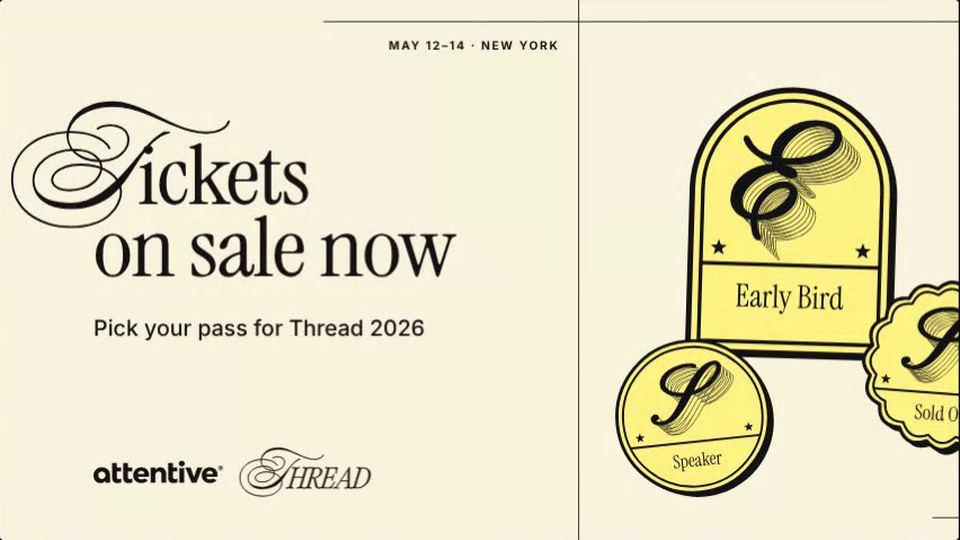
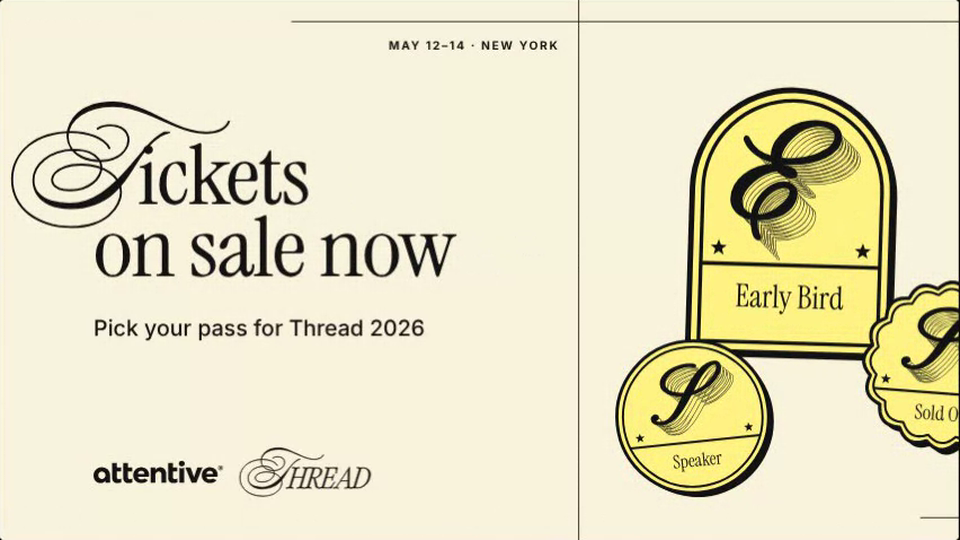
Conference Post Creator: speaker badge tilted further left (#342)
* Add Conference Post Generator: Thread 2026 social posts with loops, outlined photos and badges

Claude-Session: https://claude.ai/code/session_01AHeBdzDs1sAKkVKYb3xsdt

* Conference Post Generator: drop loop grid, badges on the right (3-5), Unsplash B&W portraits, single yellow

Claude-Session: https://claude.ai/code/session_01AHeBdzDs1sAKkVKYb3xsdt

* Conference Post Generator: new calligraphy flourish, sharp badges and tag, hairline pattern frame, caps date, one-line speaker name

Claude-Session: https://claude.ai/code/session_01AHeBdzDs1sAKkVKYb3xsdt

* Conference Post Generator: 3D calligraphic letter in badges, tighter headline leading

Claude-Session: https://claude.ai/code/session_01AHeBdzDs1sAKkVKYb3xsdt

* Conference Post Generator: date in the tag's type, more space above the talk title

Claude-Session: https://claude.ai/code/session_01AHeBdzDs1sAKkVKYb3xsdt

* Conference Post Generator: badge names on one line in Title Case

Claude-Session: https://claude.ai/code/session_01AHeBdzDs1sAKkVKYb3xsdt

* Conference Post Generator: date in footer, bigger photos bleeding off the bar, more space under the headline, smaller 16:9 speaker photo

Claude-Session: https://claude.ai/code/session_01AHeBdzDs1sAKkVKYb3xsdt

* Conference Post Generator: headline is photos only, no loops, no badge

Claude-Session: https://claude.ai/code/session_01AHeBdzDs1sAKkVKYb3xsdt
[…]

diff --git a/conference-post-generator/index.html b/conference-post-generator/index.html
@@ -580,7 +580,7 @@ function tSpeaker(ctx, c) {
   const sq = S.fmt === 'square' || S.fmt === 'portrait';  // feed and portrait: big badge on the left, the print overlaps it on the right, text stays still
   if (sq) {
     const bar = th.accent !== th.bg, bh = pr.h * 0.72, bw = bh * SHAPE_RATIO[S.badgeShape], ph = pr.h * 0.66, pw = ph * 0.8, cy = pr.y + pr.h * 0.54, bdy = bar ? pr.h * 0.13 : 0, pdy = bar ? -pr.h * 0.03 : pr.h * 0.05;  // visible bar: print moves up, badge drops to overlap the bar's bottom edge
-    if (S.showBadge) drawBadge(ctx, th, S.badgeShape, W * 0.36, cy + bdy + 5 * sway(t, 1.2), bh, -0.08 + 0.015 * sway(t, 0.9), S.badgeText, 10 * fu);
+    if (S.showBadge) drawBadge(ctx, th, S.badgeShape, W * 0.36, cy + bdy + 5 * sway(t, 1.2), bh, -0.17 + 0.015 * sway(t, 0.9), S.badgeText, 10 * fu);
     photoFrame(ctx, 0, W * 0.36 + bw / 2 + pw * 0.47, cy + pdy + 4 * sway(t, 0.4), pw, ph, 0.06 + 0.012 * sway(t, 0.2), th, 12 * fu);
   } else {
     const ph = pr.h * (land ? 0.56 : 0.74), pw = ph * 0.8, dx = land ? 0 : -0.045 * W, dy = land ? 0 : 0.07 * pr.h;  // stacked: print and badge sit lower and a little left
